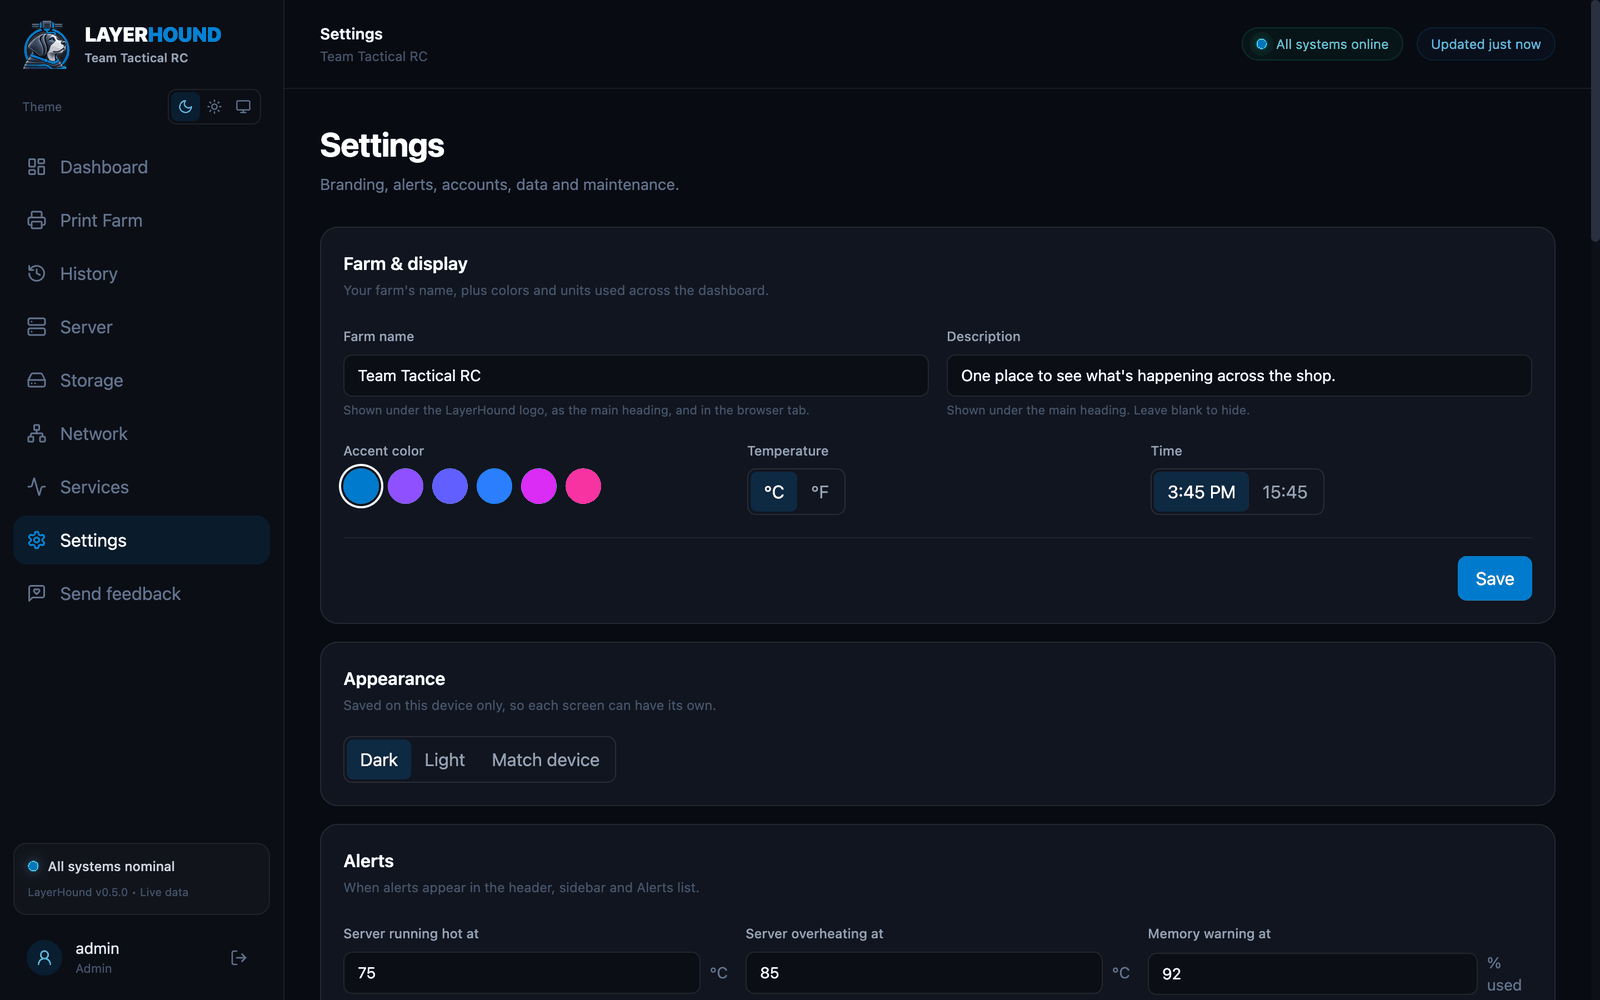
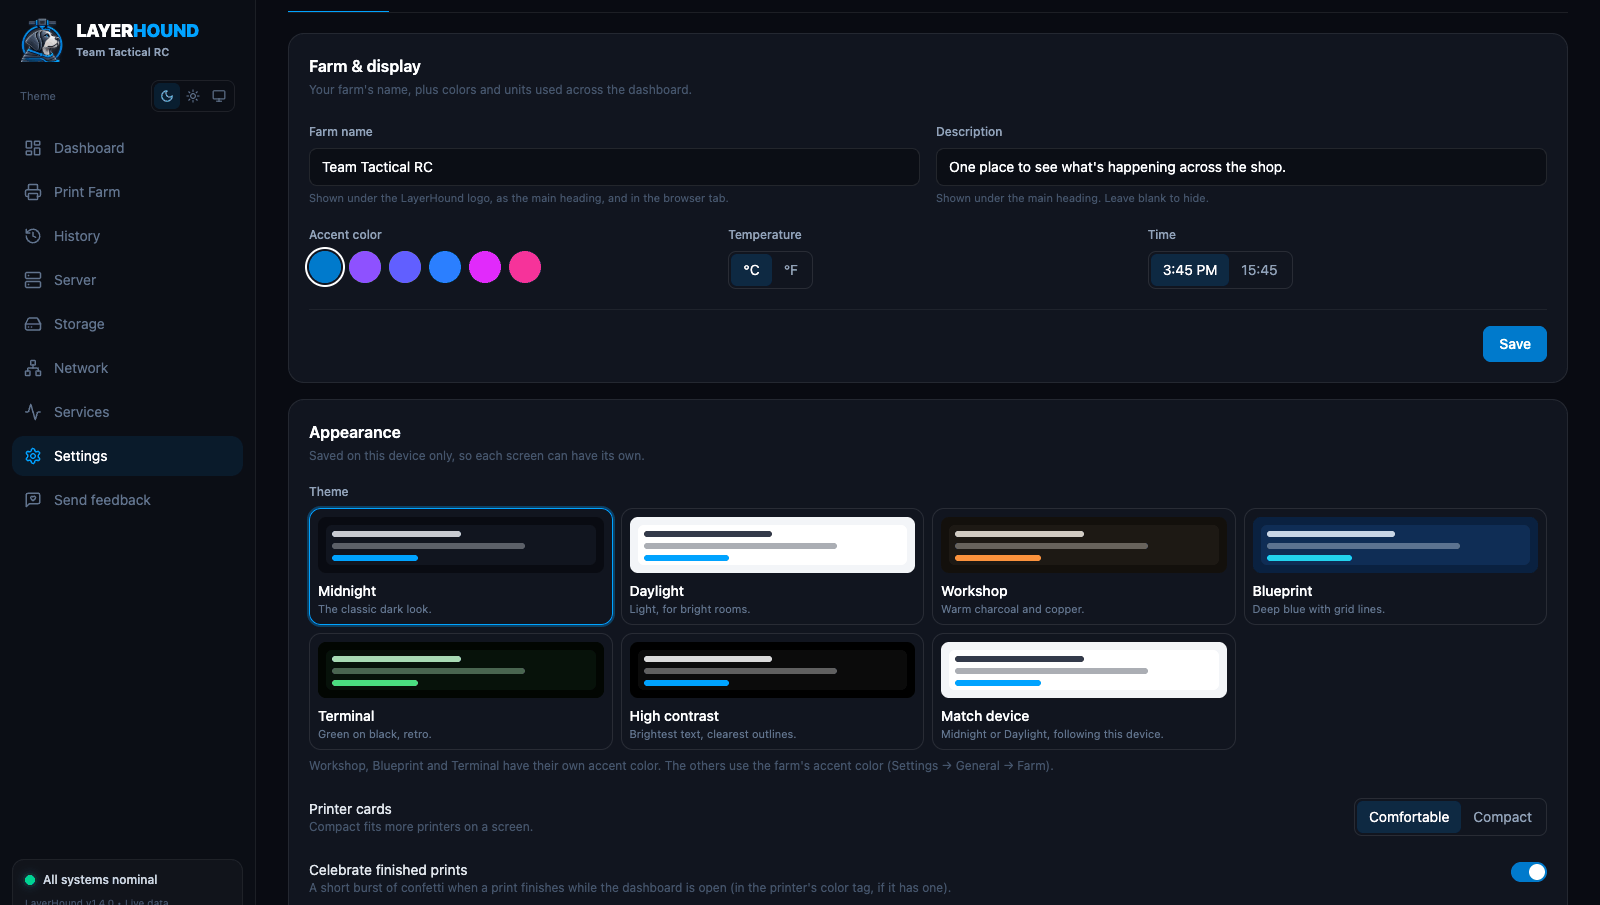
Screenshots of the new features in the README and owner's guide
Themes (Workshop, Blueprint, Terminal, Daylight), the wall screen, compact
cards with color tags, a refreshed Settings page (tabs and Appearance), the
color tag picker and upload progress. Taken from a local LayerHound with
sample printers and server stats; the README says which screenshots are from
the real farm. Also: the upload panel no longer shows "Still uploading from
this device: 0%" before any progress is known.

diff --git a/src/main.jsx b/src/main.jsx
@@ -1068,7 +1068,7 @@ function UploadProgress({ printer, browser, sending }) {
     <div className="mt-3" data-testid="upload-progress">
       <div className="h-1.5 rounded-full bg-white/6"><div className={`h-full rounded-full transition-all ${sending?.phase === "retrying" ? "bg-amber-400" : "bg-violet-500"}`} style={{ width: `${Math.round(pct * 100)}%` }} /></div>
       <p className={`mt-2 flex items-center gap-2 text-xs ${sending?.phase === "retrying" ? "text-amber-200" : "text-slate-400"}`}>{spin && <Loader2 size={13} className="animate-spin" />} {text}</p>
-      {sending && browser < 1 && <p className="mt-1 text-[11px] text-slate-600">Still uploading from this device: {Math.round(browser * 100)}%</p>}
+      {sending && browser > 0 && browser < 1 && <p className="mt-1 text-[11px] text-slate-600">Still uploading from this device: {Math.round(browser * 100)}%</p>}
     </div>
   );
 }

diff --git a/tests/ui/test_dashboard.py b/tests/ui/test_dashboard.py
@@ -279,7 +279,7 @@ def test_board_password_on_a_card(browser, base_url):
     page.context.close()
 
 
-def test_upload_progress_and_weak_connection(browser, base_url):
+def test_upload_progress_and_weak_connection(browser, base_url, admin_state):
     # A printer on weak Wi-Fi (faked in the browser): a "Weak connection" note, and an upload that
     # shows the board's progress sending it on, including a retry
     page = new_page(browser, base_url)

diff --git a/docs/GUIDE.md b/docs/GUIDE.md
@@ -100,6 +100,8 @@ LayerHound **watches** your printers. Controlling them is optional and off by de
 - **On the printer:** the G-code files already stored on it, newest first, with a search box. Pick one.
 - **Upload:** send a sliced G-code file from your computer or phone, and start it right away or just store it on the printer.
 - **Big files and weak Wi-Fi:** the panel shows how far the file has got on its way to the printer. If the printer stops taking it (usually a weak Wi-Fi signal), LayerHound tries once more by itself, then tells you. A printer that keeps answering slowly shows **Weak connection** on its card: moving the router closer, or using a cable if the printer has a network port, makes uploads much faster.
+
+  ![Uploading a file: "Sending to Elegoo Neptune 4 Max… 62%"](screenshots/upload-progress.png)
 - Before starting, you tick **The bed is clear and ready to print**, with the printer's camera shown above. Only start a print you'd be comfortable leaving running; you may not be there to watch it.
 - LayerHound says **Printing** only once the printer reports it's printing.
 - Not for Bambu Lab printers yet: use Bambu Studio or Bambu Handy.
@@ -118,11 +120,18 @@ LayerHound **watches** your printers. Controlling them is optional and off by de
 | **Settings** | In tabs: **General** (farm name, accent color, appearance, alerts), **Printers** (printer controls, discovery), **Accounts** (users, recovery key, your password), **Network** (remote access, setup hotspot) and **System** (updates, backups, recent problems, maintenance, fan, usage stats). |
 
 **Make it yours** (**Settings → General → Appearance**; each device remembers its own choices):
+
+![The Appearance section: theme tiles, printer card size and confetti](screenshots/settings.png)
+
 - **Theme:** Midnight (dark), Daylight (light), Workshop, Blueprint, Terminal, High contrast, or match the device's light or dark setting. The moon, sun and screen buttons under the logo switch between dark, light and match device quickly.
 - **Printer cards:** Comfortable, or Compact to fit more printers on a screen.
 - **Celebrate finished prints:** a short burst of confetti when a print finishes while the dashboard is open.
 - **Wall screen:** a big, read-only view of your printers with a clock and no menu, for a TV or monitor. Open it with the screen button at the top right, or bookmark `http://layerhound.local/?wall=1` on the screen that should always show it. Press Esc to leave.
 - **Color tags** are set per printer (**Edit printer → Color tag**), so every device shows them: a colored strip on the printer's card.
+
+![The wall screen on a TV: printers with color tags and a large clock](screenshots/wall-screen.png)
+
+![Edit printer, with the color tag swatches](screenshots/color-tag.png)
 
 **Cooling fan:** on the LayerHound board, the fan runs quietly when the board is cool and speeds up as it warms. Adjust it in **Settings → Cooling fan**.
 

diff --git a/README.md b/README.md
@@ -67,6 +67,15 @@ Any printer can use a **Camera URL** (a snapshot or MJPEG stream address) in its
 
 ## Screenshots
 
+**Make it yours:** six theme packs (here Workshop, Blueprint, Terminal and Daylight), picked per screen.
+![The dashboard in the Workshop, Blueprint, Terminal and Daylight themes](docs/screenshots/themes.png)
+
+**Wall screen:** a big, read-only view for a TV or monitor across the room, with a clock and no menu.
+![Wall screen: five printers with color tags, status and a large clock](docs/screenshots/wall-screen.png)
+
+**Compact cards and color tags:** fit more printers on a screen, and tell them apart at a glance.
+![Print Farm page with compact printer cards, each with a colored strip](docs/screenshots/compact-cards.png)
+
 **Light or dark:** each screen picks its own.
 ![Dashboard in light mode](docs/screenshots/dashboard-light.png)
 
@@ -82,10 +91,10 @@ Any printer can use a **Camera URL** (a snapshot or MJPEG stream address) in its
 **Services:** health checks and quick-launch tiles for your other apps, with Home Assistant and Pi-hole stats.
 ![Services page](docs/screenshots/services.png)
 
-**Settings:** farm name, accent color, light or dark, units, alerts, fan, accounts, backups and updates.
-![Settings page](docs/screenshots/settings.png)
+**Settings:** in tabs: farm name and accent color, appearance (themes, card size, wall screen), alerts, printers, accounts, network, updates and backups.
+![Settings, General tab: farm name, accent color and the Appearance section's theme tiles](docs/screenshots/settings.png)
 
-<sub>Screenshots are from a real five-printer farm running LayerHound on a Radxa ROCK 4D. The public IP address, hardware addresses, Wi-Fi name and account names have been replaced.</sub>
+<sub>The Dashboard, light mode, History, Server, Network and Services screenshots are from a real five-printer farm running LayerHound on a Radxa ROCK 4D, with the public IP address, hardware addresses, Wi-Fi name and account names replaced. The themes, wall screen, compact cards and Settings screenshots use sample printers.</sub>
 
 ## Develop: run it on your computer
 
